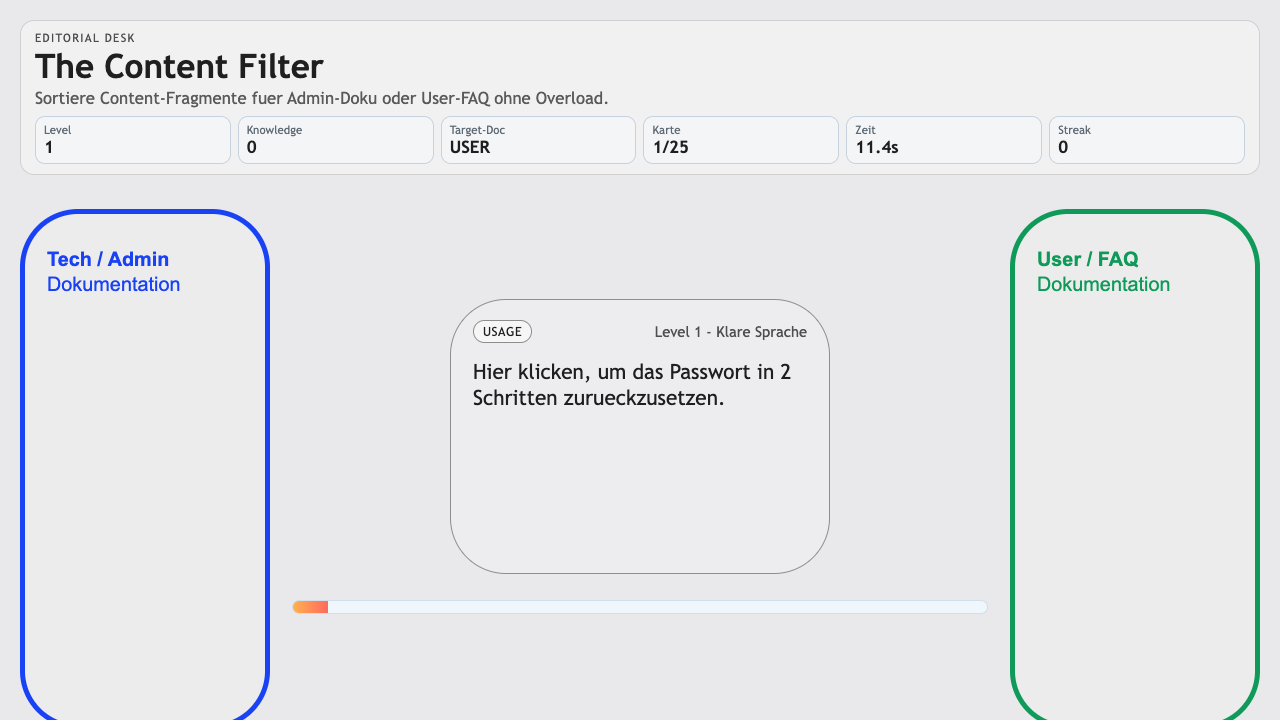
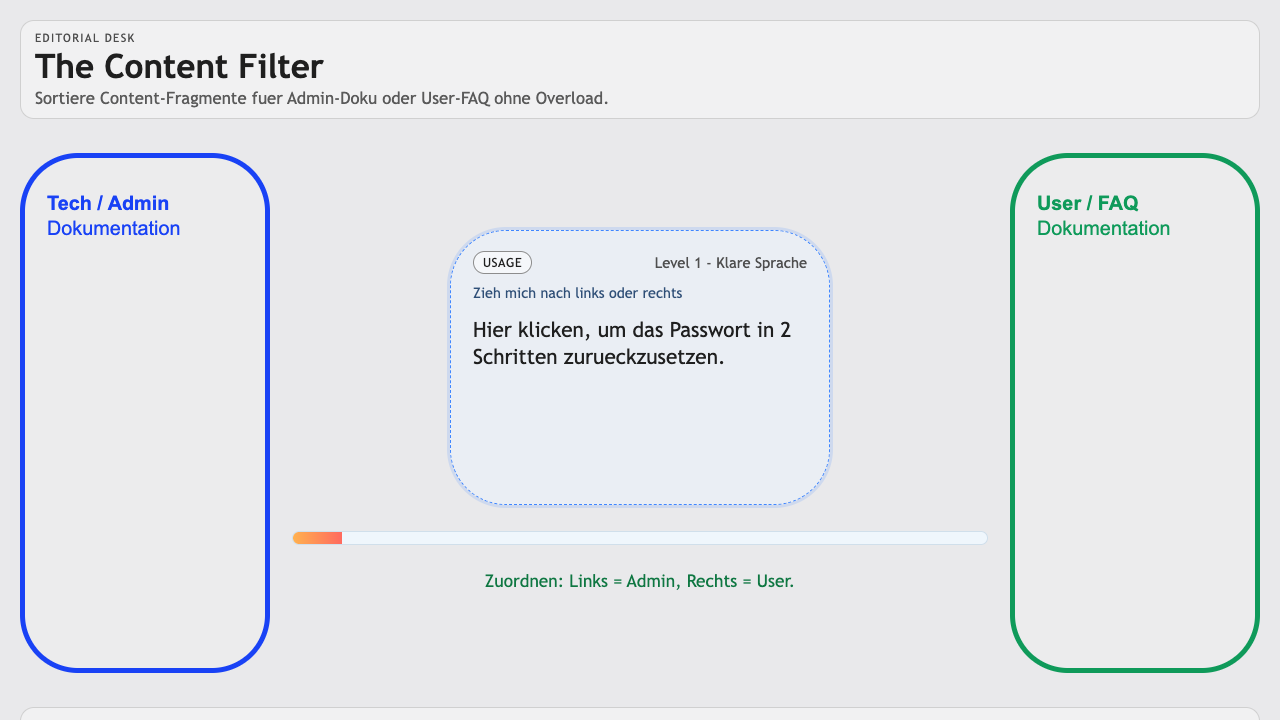
IT-Sicherheit & Datenschutz GamePläne abgeschlossen - Teil 3

diff --git a/databases/Teil02 FIAE/database/Anforderungen, Analyse, Projekt & Prozess/Erschienene Themen/Dokumentation/game_doku_zielgruppen_match.js b/databases/Teil02 FIAE/database/Anforderungen, Analyse, Projekt & Prozess/Erschienene Themen/Dokumentation/game_doku_zielgruppen_match.js
@@ -21,17 +21,7 @@
   };
 
   const el = {
-    level: document.getElementById('hud-level'),
-    score: document.getElementById('hud-score'),
-    target: document.getElementById('hud-target'),
-    card: document.getElementById('hud-card'),
-    time: document.getElementById('hud-time'),
-    streak: document.getElementById('hud-streak'),
-    confusion: document.getElementById('hud-confusion'),
-    meterFill: document.getElementById('meter-fill'),
     readFill: document.getElementById('read-fill'),
-    badge: document.getElementById('snippet-badge'),
-    hint: document.getElementById('snippet-hint'),
     text: document.getElementById('snippet-text'),
     feedback: document.getElementById('feedback'),
     feed: document.getElementById('feed'),
@@ -113,10 +103,10 @@
     state.cardStart = Date.now();
     state.lock = false;
 
-    el.badge.textContent = snippet.badge;
     el.text.textContent = snippet.text;
-    el.hint.textContent = level.name;
     el.cardNode.style.transform = 'translateX(0px)';
+    setFeedback('Ordne das aktuelle Fragment zu: links Admin, rechts User.', true);
+    updateDragState();
 
     updateHud();
   }
@@ -198,6 +188,7 @@
     }
 
     setFeedback(msg, points >= 0);
+    updateDragState();
     updateHud();
     el.nextBtn.classList.remove('hidden');
   }
@@ -246,6 +237,7 @@
     }
 
     setFeedback('Zu langsam: Support-Rueckfragen steigen.', false);
+    updateDragState();
     updateHud();
     el.nextBtn.classList.remove('hidden');
   }
@@ -262,6 +254,7 @@
     setFeedback(perfect ? 'Zero Confusion erreicht. Bonus +300.' : 'Mission abgeschlossen.', true);
     pushLog(`Abschluss: ${state.score} Punkte, Confusion ${state.confusion}%.`, 'ok');
     renderFeed();
+    updateDragState();
     updateHud();
   }
 
@@ -273,6 +266,7 @@
     el.restartBtn.classList.remove('hidden');
     pushLog('Support-Crisis eskaliert. Mission abgebrochen.', 'bad');
     renderFeed();
+    updateDragState();
     updateHud();
   }
 
@@ -295,13 +289,12 @@
     el.nextBtn.classList.add('hidden');
     el.restartBtn.classList.add('hidden');
 
-    el.badge.textContent = 'USAGE';
     el.text.textContent = 'Druecke Mission starten.';
-    el.hint.textContent = 'Fokus: User-Verstaendnis';
 
     setFeedback('Neuer Run bereit.', true);
     pushLog('System reset.', 'ok');
     renderFeed();
+    updateDragState();
     updateHud();
   }
 
@@ -332,20 +325,15 @@
   }
 
   function updateHud() {
-    const total = state.cfg ? state.cfg.snippets.length : 0;
-    const level = currentLevel();
-
-    el.level.textContent = String(level ? levelIndexBySnippet(state.idx) + 1 : 1);
-    el.score.textContent = String(state.score);
-    el.target.textContent = level ? level.target_doc : '-';
-    el.card.textContent = `${Math.min(total, state.idx + 1)}/${total}`;
-    el.time.textContent = `${(state.cardTimer / 1000).toFixed(1)}s`;
-    el.streak.textContent = String(state.streak);
-    el.confusion.textContent = `${Math.round(state.confusion)}%`;
-    el.meterFill.style.transform = `scaleX(${state.confusion / 100})`;
     document.body.classList.toggle('high-confusion', state.confusion >= 70);
 
+    updateDragState();
     updateReadability();
+  }
+
+  function updateDragState() {
+    const canDrag = state.started && !state.lock && !state.done && !state.gameOver;
+    el.cardNode.classList.toggle('draggable', canDrag);
   }
 
   function updateReadability() {

diff --git a/databases/Teil02 FIAE/database/Anforderungen, Analyse, Projekt & Prozess/Erschienene Themen/Dokumentation/doku_zielgruppen_match.css b/databases/Teil02 FIAE/database/Anforderungen, Analyse, Projekt & Prozess/Erschienene Themen/Dokumentation/doku_zielgruppen_match.css
@@ -25,7 +25,6 @@ body.cf-page {
 }
 
 .topbar,
-.confusion-meter,
 .diagnostic {
   border: 1px solid #d0d0d0;
   border-radius: 14px;
@@ -51,28 +50,6 @@ h1 {
   color: var(--muted);
   font-size: 1.05rem;
 }
-
-.hud {
-  margin-top: 8px;
-  display: grid;
-  grid-template-columns: repeat(6, minmax(88px, 1fr));
-  gap: 7px;
-}
-
-.chip {
-  border: 1px solid #c6d3df;
-  border-radius: 10px;
-  padding: 6px 8px;
-  background: #f4f5f7;
-}
-
-.chip span {
-  display: block;
-  font-size: 0.72rem;
-  color: #5f6a75;
-}
-
-.chip strong { font-size: 1.06rem; }
 
 .target-bins {
   min-height: 560px;
@@ -136,33 +113,11 @@ h1 {
   background: rgba(255, 255, 255, 0.18);
   padding: 20px 22px;
   touch-action: none;
-}
-
-.card-head {
-  display: flex;
-  justify-content: space-between;
-  align-items: center;
-  gap: 10px;
-}
-
-.badge {
-  display: inline-block;
-  border: 1px solid #8d8d8d;
-  border-radius: 999px;
-  padding: 3px 9px;
-  font-size: 0.78rem;
-  letter-spacing: 0.04em;
-  background: rgba(255, 255, 255, 0.52);
-}
-
-.hint {
-  color: #4f4f4f;
-  font-size: 0.92rem;
-  text-align: right;
+  cursor: default;
 }
 
 #snippet-text {
-  margin: 16px 0 0;
+  margin: 8px 0 0;
   font-size: clamp(1.18rem, 1.62vw, 2rem);
   line-height: 1.28;
 }
@@ -186,6 +141,7 @@ h1 {
 .action-row {
   display: grid;
   justify-items: center;
+  gap: 10px;
 }
 
 .start {
@@ -201,32 +157,12 @@ h1 {
 
 .hidden { display: none; }
 
-.confusion-meter .meter-head {
-  display: flex;
-  justify-content: space-between;
-  align-items: center;
-}
-
-.meter-track {
-  margin-top: 7px;
-  height: 12px;
-  border: 1px solid #bdc4cc;
-  border-radius: 999px;
-  background: #f0f1f3;
-  overflow: hidden;
-}
-
-.meter-fill {
-  height: 100%;
-  width: 0;
-  transform-origin: left center;
-  background: linear-gradient(90deg, #44d17a, #f3ca54, #ff5a67);
-}
-
 .feedback {
-  margin: 8px 0 0;
+  margin: 0;
   color: #4f5f72;
-  font-size: 1.02rem;
+  font-size: 1.08rem;
+  min-height: 1.4em;
+  text-align: center;
 }
 
 .feedback.ok { color: #0f7742; }
@@ -259,13 +195,20 @@ body.cf-page.confusion-wave {
   animation: confusionWave 300ms linear 3;
 }
 
-body.cf-page.high-confusion .meter-track {
-  border-color: rgba(255, 90, 103, 0.55);
-  box-shadow: 0 0 0 2px rgba(255, 90, 103, 0.12);
-}
-
 body.cf-page.high-confusion .feedback {
   color: #b53a45;
+}
+
+.snippet-card.draggable {
+  border-style: dashed;
+  border-color: #3f86ff;
+  background: rgba(235, 244, 255, 0.45);
+  cursor: grab;
+  box-shadow: 0 0 0 3px rgba(63, 134, 255, 0.16);
+}
+
+.snippet-card.draggable:active {
+  cursor: grabbing;
 }
 
 @keyframes confusionWave {
@@ -301,10 +244,6 @@ body.cf-page.high-confusion .feedback {
   .snippet-card {
     min-height: 200px;
     border-radius: 26px;
-  }
-
-  .hud {
-    grid-template-columns: repeat(3, minmax(86px, 1fr));
   }
 
   .start {

diff --git a/databases/Teil02 FIAE/database/Anforderungen, Analyse, Projekt & Prozess/Erschienene Themen/Dokumentation/game_doku_zielgruppen_match.html b/databases/Teil02 FIAE/database/Anforderungen, Analyse, Projekt & Prozess/Erschienene Themen/Dokumentation/game_doku_zielgruppen_match.html
@@ -22,11 +22,6 @@
     <div class="center-column">
       <section class="conveyor-wrap" aria-label="Conveyor belt">
         <article id="snippet-card" class="snippet-card">
-          <div class="card-head">
-            <span id="snippet-badge" class="badge">USAGE</span>
-            <span id="snippet-hint" class="hint">Fokus: User-Verstaendnis</span>
-          </div>
-          <p class="drag-flag">Zieh mich nach links oder rechts</p>
           <p id="snippet-text">Druecke Mission starten.</p>
         </article>
       </section>
